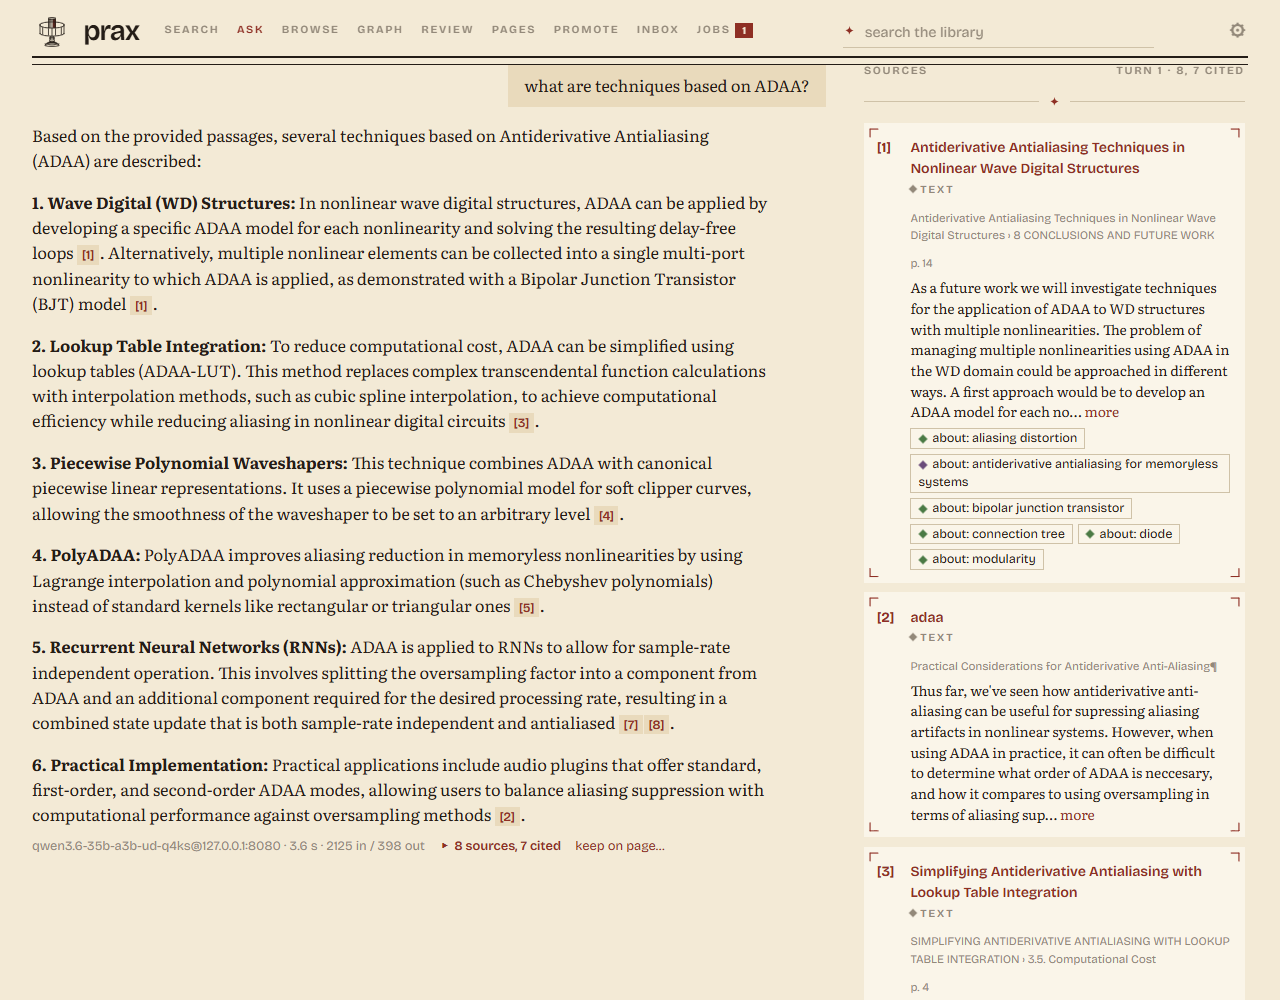
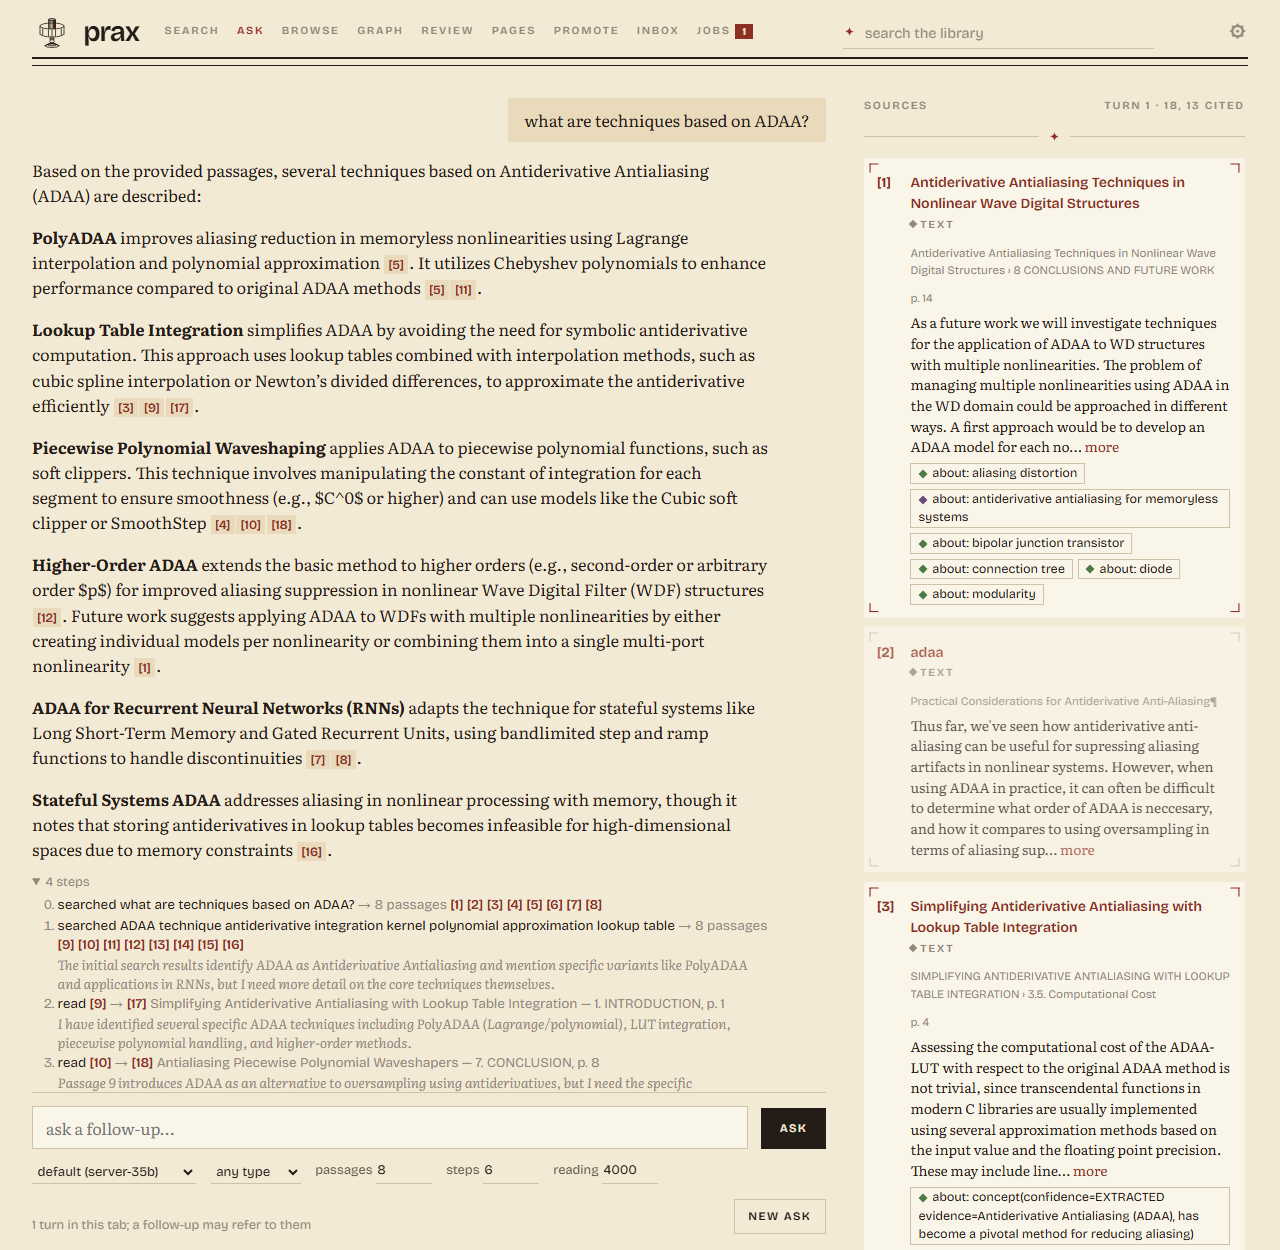
docs: the README's ask screenshot shows a surf — searched again, read on, the trail under the answer
Claude-Session: https://claude.ai/code/session_01SQHXV55MdfYHyrcWTHEig3

diff --git a/README.md b/README.md
@@ -16,7 +16,7 @@ Claude Code.
 <table>
 <tr>
 <td width="50%"><a href="docs/images/search.png"><img src="docs/images/search.png" alt="Search results: hybrid hits with the side that found each"></a></td>
-<td width="50%"><a href="docs/images/ask.png"><img src="docs/images/ask.png" alt="Ask: an answer citing passages, the sources beside it, a follow-up"></a></td>
+<td width="50%"><a href="docs/images/ask.png"><img src="docs/images/ask.png" alt="Ask: the model surfed four steps, searching again and reading on; the answer cites the passages it kept, the sources beside it, the trail under it"></a></td>
 </tr>
 <tr>
 <td><sub>Search: hybrid hits, each saying which side found it — keywords, vectors, the document field.</sub></td>
